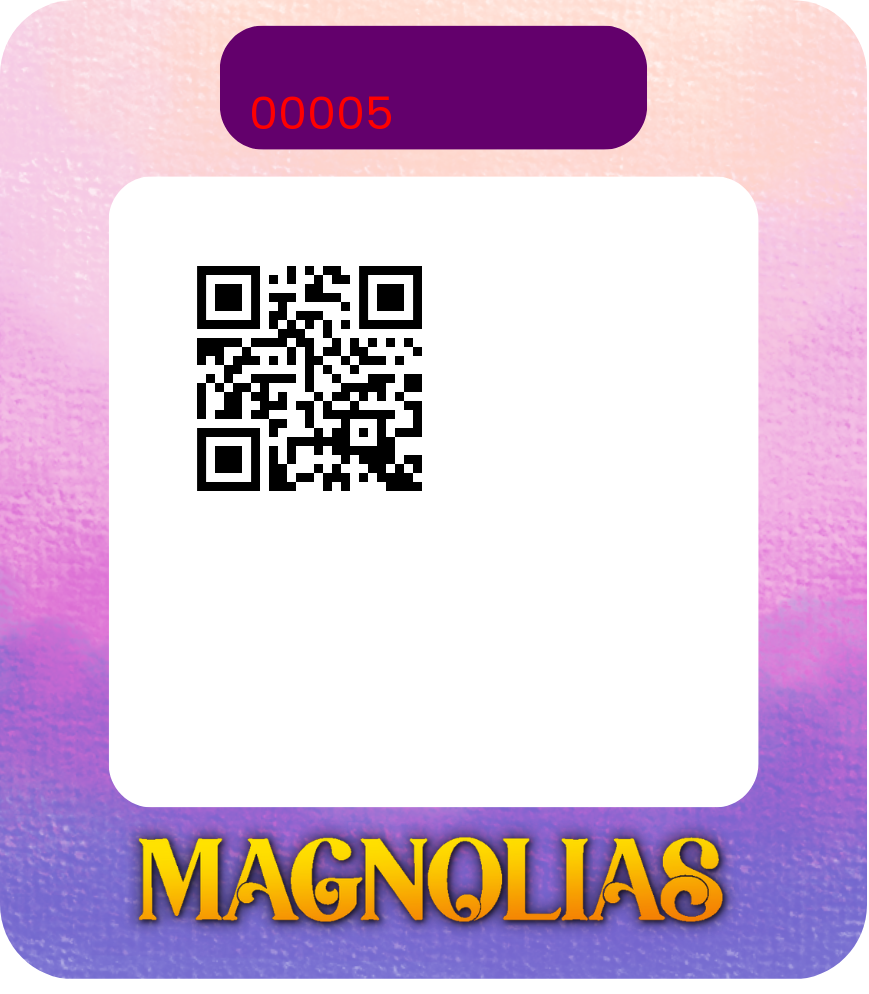
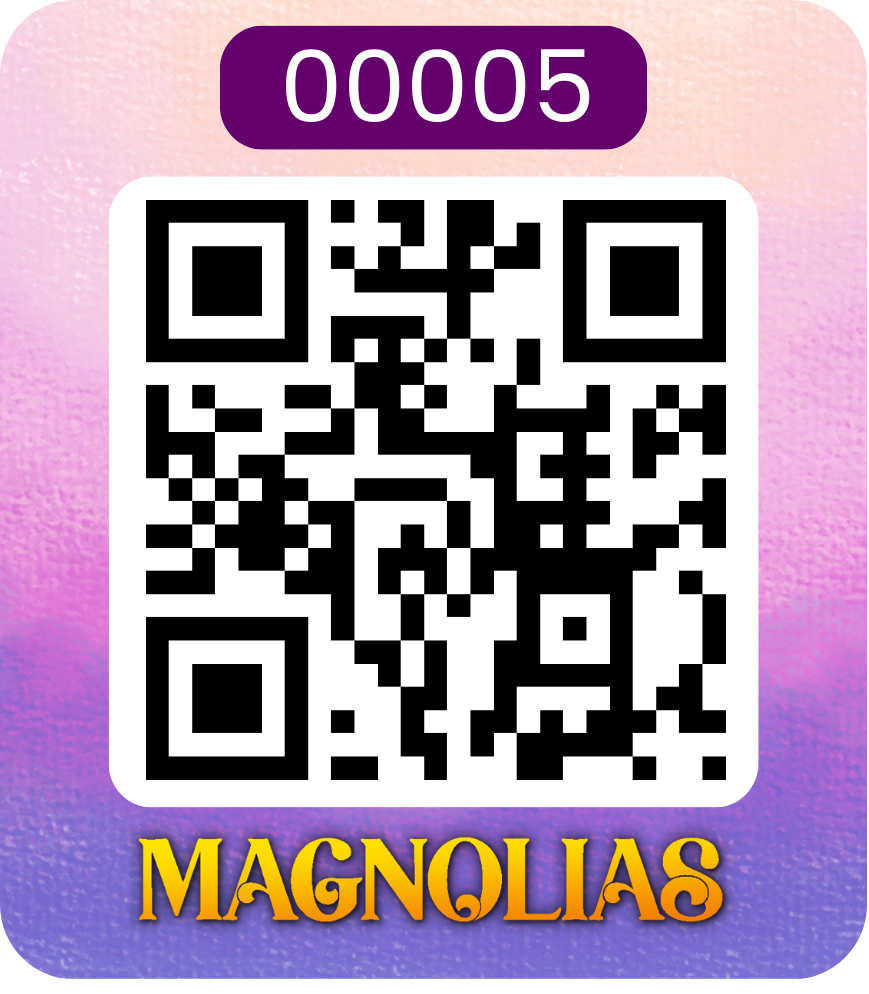
update

diff --git a/gambar.py b/gambar.py
@@ -151,15 +151,15 @@ font_regular_path = r"C:\Users\Rasyi\OneDrive\Desktop\TICKET-MAGNOLIAS\font\Popp
 font_bold_path = r"C:\Users\Rasyi\OneDrive\Desktop\TICKET-MAGNOLIAS\font\Poppins Bold 700.ttf"  # FONT Bold
 
 # Variabel baru untuk konfigurasi
-generate_count = 10  # Banyaknya yang mau digenerate
+generate_count = 40  # Banyaknya yang mau digenerate
 use_wordlist_for_code = False  # Gunakan wordlist untuk code unik? True|False
 use_wordlist_for_output = False  # Gunakan wordlist untuk output filename? True|False
 
 # Konfigurasi font dan tampilan
 font_config = {
     "code": {
-        "size": 45,
-        "color": "red",
+        "size":100,
+        "color": "white",
         "bold": False,
         "display_font": True  # Menampilkan font untuk kode unik
     }
@@ -167,8 +167,8 @@ font_config = {
 
 # Koordinat untuk penempatan elemen
 coords = {
-    "qr": (160, 229),  # Koordinat untuk QR code
-    "code": (249, 81)  # Koordinat untuk Code unik
+    "qr": (136, 190),  # Koordinat untuk QR code
+    "code": (280, 17)  # Koordinat untuk Code unik
 }
 
 # Fungsi untuk menghasilkan random word
